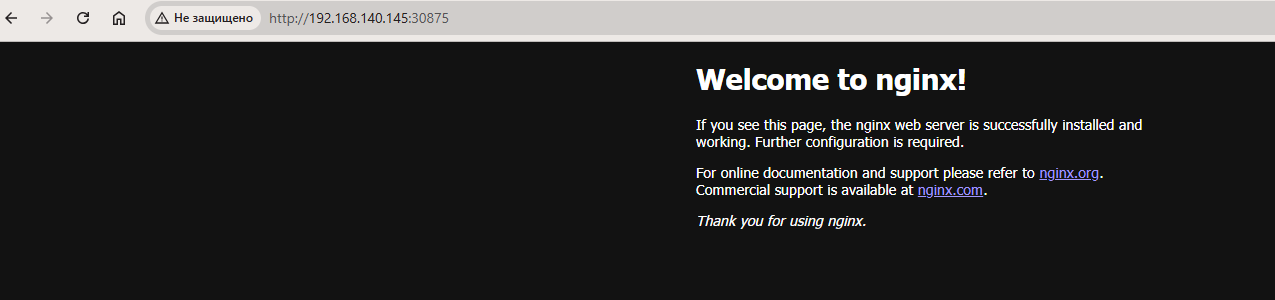
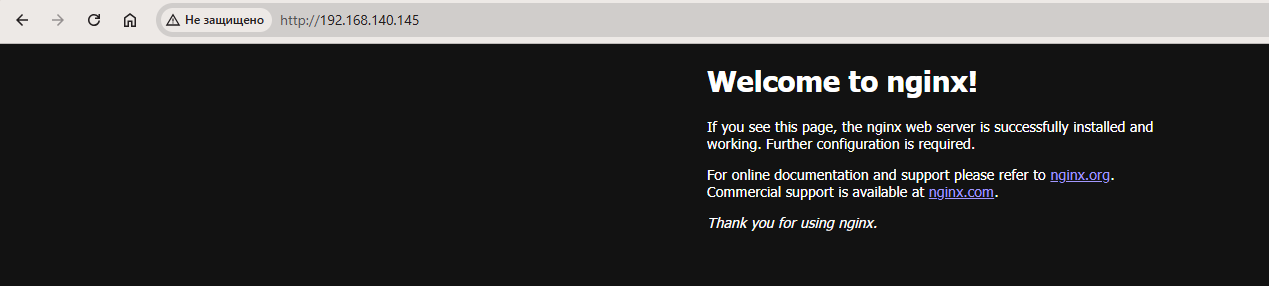
Надо бы внимательнее читать задание, reconfigure ingress to hostnetwork=true

diff --git a/README.md b/README.md
@@ -120,6 +120,19 @@ Multitool по умолчанию использует порт 80, поэтом
    - [backend](./manifests/task2/deployment-backend.yaml) (образ `wbitt/network-multitool`).
 2. Создал [Service-frontend](./manifests/task2/service-frontend.yaml) и [Service-backend](./manifests/task2/service-backend.yaml) для каждого приложения.
 3. Развернул ингресс контроллер `kubectl apply -f https://raw.githubusercontent.com/kubernetes/ingress-nginx/controller-v1.15.1/deploy/static/provider/cloud/deploy.yaml`
+Для функционирования по условию задания необходимо привести контроллер в режим HostNetwork=true
+```bash
+kubectl patch deployment ingress-nginx-controller \
+  -n ingress-nginx \
+  --type=strategic \
+  -p '
+spec:
+  template:
+    spec:
+      hostNetwork: true
+      dnsPolicy: ClusterFirstWithHostNet
+'
+```
 4. Создать [Ingress](./manifests/task2/ingress.yaml), который:
    - Открывает `frontend` по пути `/`. 
    - Открывает `backend` по пути `/api`.
